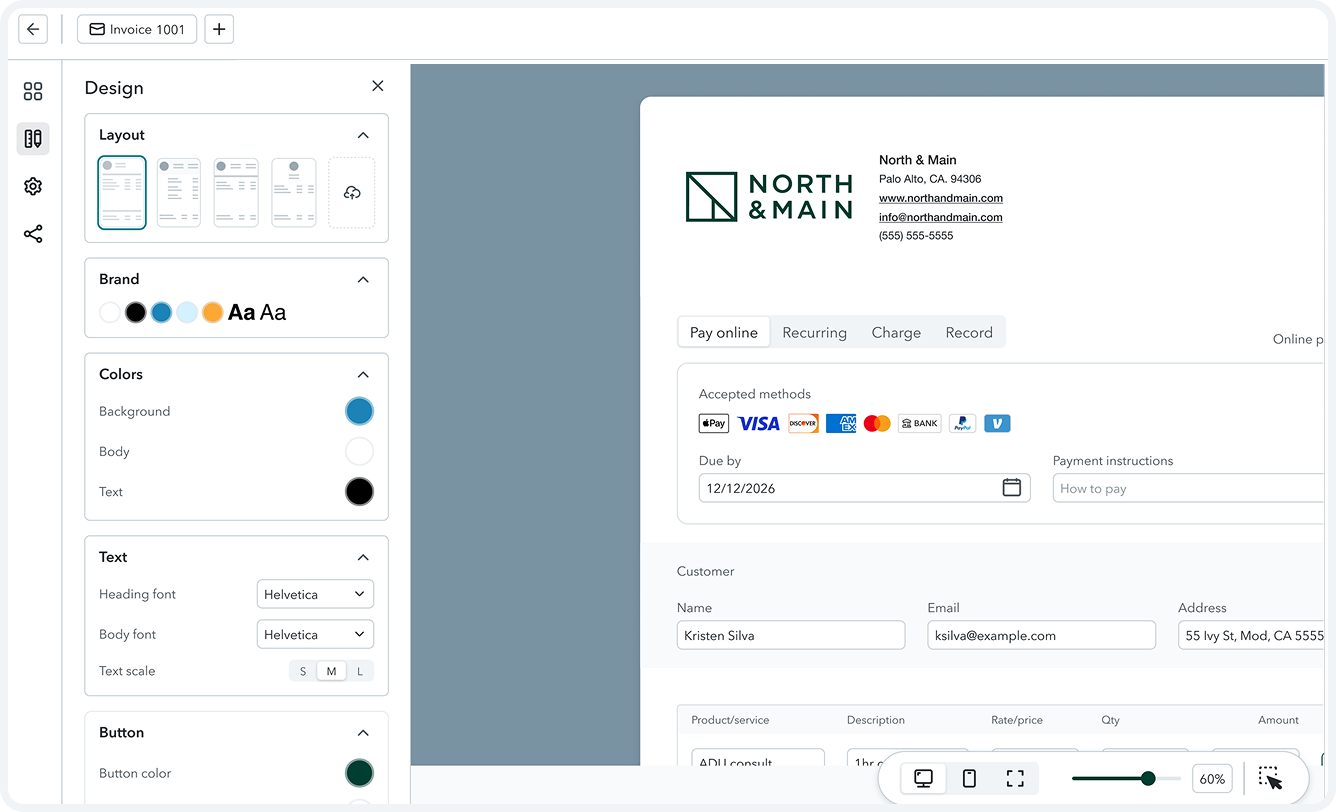
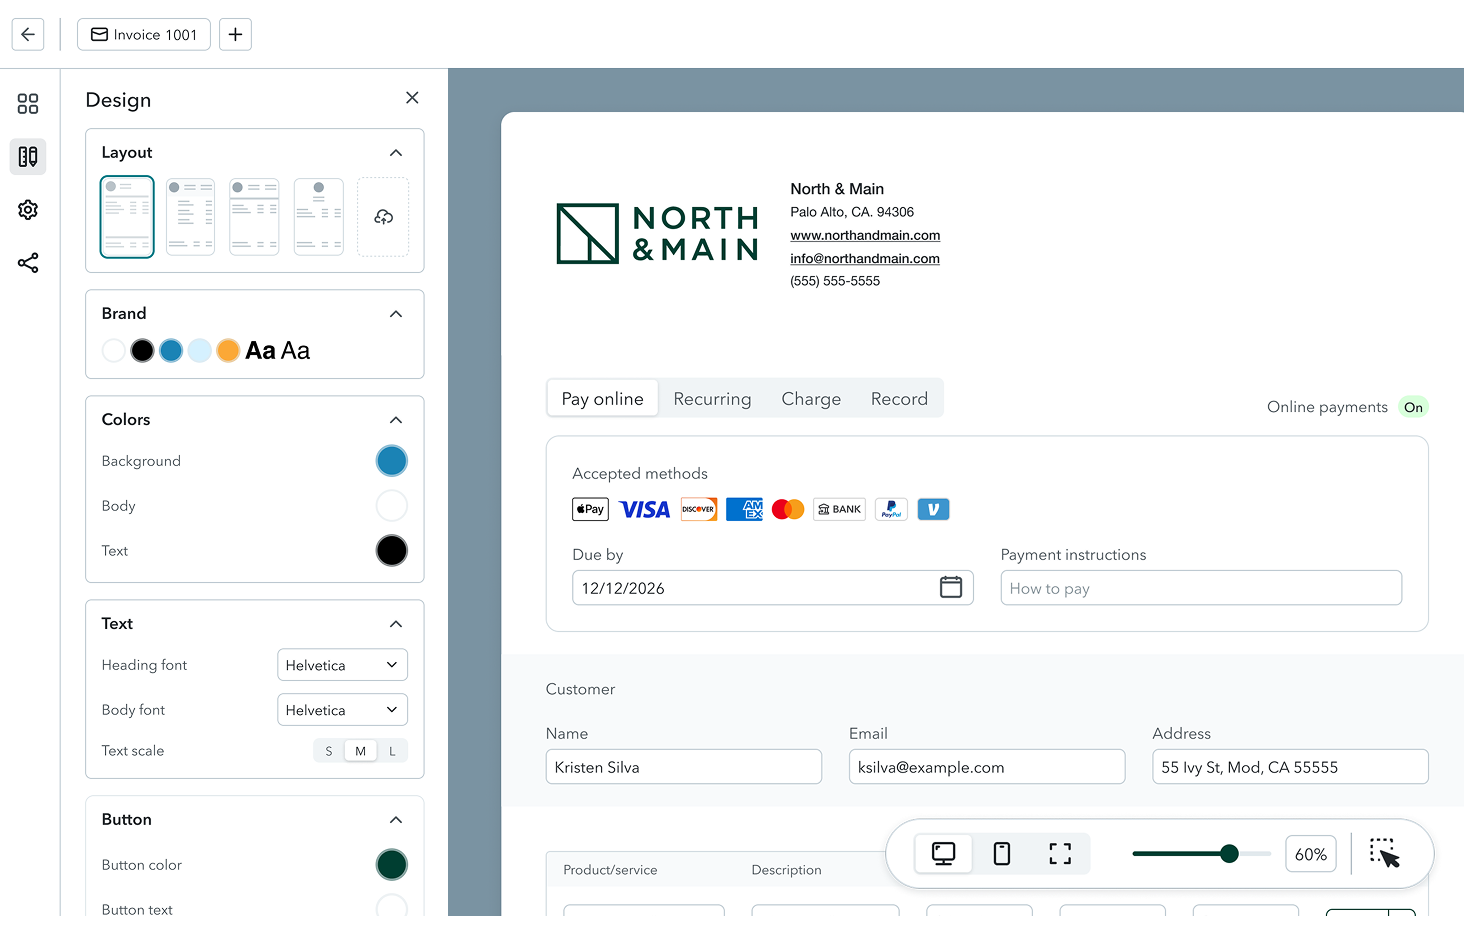
New About headline; equal spacing around Portfolio divider
Subhead and first case study link are trimmed to their baseline and cap
tops so the visible gap is exactly --space-5 on both sides of the rule.

diff --git a/work.html b/work.html
@@ -9,7 +9,7 @@
   <link rel="preconnect" href="https://fonts.googleapis.com" />
   <link rel="preconnect" href="https://fonts.gstatic.com" crossorigin />
   <link href="https://fonts.googleapis.com/css2?family=Inter:opsz,wght@14..32,400;14..32,500;14..32,600;14..32,700&family=Source+Serif+4:ital,opsz,wght@0,8..60,400;0,8..60,600;0,8..60,700;1,8..60,400&display=swap" rel="stylesheet" />
-  <link rel="stylesheet" href="assets/css/style.css?v=d3738257" />
+  <link rel="stylesheet" href="assets/css/style.css?v=e9cc3e42" />
 </head>
 <body>
 
@@ -65,7 +65,7 @@
     </div>
   </main>
 
[2 lines of base64/hex data omitted]
   <script src="assets/js/unlock.js?v=b97b3598"></script>
 
   <footer class="site-footer">

diff --git a/work/reimagine-invoicing.html b/work/reimagine-invoicing.html
@@ -9,7 +9,7 @@
   <link rel="preconnect" href="https://fonts.googleapis.com" />
   <link rel="preconnect" href="https://fonts.gstatic.com" crossorigin />
   <link href="https://fonts.googleapis.com/css2?family=Inter:opsz,wght@14..32,400;14..32,500;14..32,600;14..32,700&family=Source+Serif+4:ital,opsz,wght@0,8..60,400;0,8..60,700;1,8..60,400&display=swap" rel="stylesheet" />
-  <link rel="stylesheet" href="../assets/css/style.css?v=d3738257" />
+  <link rel="stylesheet" href="../assets/css/style.css?v=e9cc3e42" />
 </head>
 <body>
 
@@ -65,7 +65,7 @@
     </div>
   </main>
 
[2 lines of base64/hex data omitted]
   <script src="../assets/js/unlock.js?v=b97b3598"></script>
 
   <footer class="site-footer">

diff --git a/work/case-study-template.html b/work/case-study-template.html
@@ -9,7 +9,7 @@
   <link rel="preconnect" href="https://fonts.googleapis.com" />
   <link rel="preconnect" href="https://fonts.gstatic.com" crossorigin />
   <link href="https://fonts.googleapis.com/css2?family=Inter:opsz,wght@14..32,400;14..32,500;14..32,600;14..32,700&family=Source+Serif+4:ital,opsz,wght@0,8..60,400;0,8..60,700;1,8..60,400&display=swap" rel="stylesheet" />
-  <link rel="stylesheet" href="../assets/css/style.css?v=d3738257" />
+  <link rel="stylesheet" href="../assets/css/style.css?v=e9cc3e42" />
 </head>
 <body>
 
@@ -65,7 +65,7 @@
     </div>
   </main>
 
[2 lines of base64/hex data omitted]
   <script src="../assets/js/unlock.js?v=b97b3598"></script>
 
   <footer class="site-footer">

diff --git a/work/bulk-bill-pay.html b/work/bulk-bill-pay.html
@@ -9,7 +9,7 @@
   <link rel="preconnect" href="https://fonts.googleapis.com" />
   <link rel="preconnect" href="https://fonts.gstatic.com" crossorigin />
   <link href="https://fonts.googleapis.com/css2?family=Inter:opsz,wght@14..32,400;14..32,500;14..32,600;14..32,700&family=Source+Serif+4:ital,opsz,wght@0,8..60,400;0,8..60,700;1,8..60,400&display=swap" rel="stylesheet" />
-  <link rel="stylesheet" href="../assets/css/style.css?v=d3738257" />
+  <link rel="stylesheet" href="../assets/css/style.css?v=e9cc3e42" />
 </head>
 <body>
 
@@ -65,7 +65,7 @@
     </div>
   </main>
 
[2 lines of base64/hex data omitted]
   <script src="../assets/js/unlock.js?v=b97b3598"></script>
 
   <footer class="site-footer">

diff --git a/work/checkout-enhancements.html b/work/checkout-enhancements.html
@@ -9,7 +9,7 @@
   <link rel="preconnect" href="https://fonts.googleapis.com" />
   <link rel="preconnect" href="https://fonts.gstatic.com" crossorigin />
   <link href="https://fonts.googleapis.com/css2?family=Inter:opsz,wght@14..32,400;14..32,500;14..32,600;14..32,700&family=Source+Serif+4:ital,opsz,wght@0,8..60,400;0,8..60,700;1,8..60,400&display=swap" rel="stylesheet" />
-  <link rel="stylesheet" href="../assets/css/style.css?v=d3738257" />
+  <link rel="stylesheet" href="../assets/css/style.css?v=e9cc3e42" />
 </head>
 <body>
 
@@ -65,7 +65,7 @@
     </div>
   </main>
 
[2 lines of base64/hex data omitted]
   <script src="../assets/js/unlock.js?v=b97b3598"></script>
 
   <footer class="site-footer">

diff --git a/work/credit-card-payment.html b/work/credit-card-payment.html
@@ -9,7 +9,7 @@
   <link rel="preconnect" href="https://fonts.googleapis.com" />
   <link rel="preconnect" href="https://fonts.gstatic.com" crossorigin />
   <link href="https://fonts.googleapis.com/css2?family=Inter:opsz,wght@14..32,400;14..32,500;14..32,600;14..32,700&family=Source+Serif+4:ital,opsz,wght@0,8..60,400;0,8..60,700;1,8..60,400&display=swap" rel="stylesheet" />
-  <link rel="stylesheet" href="../assets/css/style.css?v=d3738257" />
+  <link rel="stylesheet" href="../assets/css/style.css?v=e9cc3e42" />
 </head>
 <body>
 
@@ -65,7 +65,7 @@
     </div>
   </main>
 
[2 lines of base64/hex data omitted]
   <script src="../assets/js/unlock.js?v=b97b3598"></script>
 
   <footer class="site-footer">

diff --git a/work/home-page-optimization.html b/work/home-page-optimization.html
@@ -9,7 +9,7 @@
   <link rel="preconnect" href="https://fonts.googleapis.com" />
   <link rel="preconnect" href="https://fonts.gstatic.com" crossorigin />
   <link href="https://fonts.googleapis.com/css2?family=Inter:opsz,wght@14..32,400;14..32,500;14..32,600;14..32,700&family=Source+Serif+4:ital,opsz,wght@0,8..60,400;0,8..60,700;1,8..60,400&display=swap" rel="stylesheet" />
-  <link rel="stylesheet" href="../assets/css/style.css?v=d3738257" />
+  <link rel="stylesheet" href="../assets/css/style.css?v=e9cc3e42" />
 </head>
 <body>
 
@@ -65,7 +65,7 @@
     </div>
   </main>
 
[2 lines of base64/hex data omitted]
   <script src="../assets/js/unlock.js?v=b97b3598"></script>
 
   <footer class="site-footer">

diff --git a/work/make-all-invoices-payable.html b/work/make-all-invoices-payable.html
@@ -9,7 +9,7 @@
   <link rel="preconnect" href="https://fonts.googleapis.com" />
   <link rel="preconnect" href="https://fonts.gstatic.com" crossorigin />
   <link href="https://fonts.googleapis.com/css2?family=Inter:opsz,wght@14..32,400;14..32,500;14..32,600;14..32,700&family=Source+Serif+4:ital,opsz,wght@0,8..60,400;0,8..60,700;1,8..60,400&display=swap" rel="stylesheet" />
-  <link rel="stylesheet" href="../assets/css/style.css?v=d3738257" />
+  <link rel="stylesheet" href="../assets/css/style.css?v=e9cc3e42" />
 </head>
 <body>
 
@@ -65,7 +65,7 @@
     </div>
   </main>
 
[2 lines of base64/hex data omitted]
   <script src="../assets/js/unlock.js?v=b97b3598"></script>
 
   <footer class="site-footer">

diff --git a/work/multi-bill-ingest.html b/work/multi-bill-ingest.html
@@ -9,7 +9,7 @@
   <link rel="preconnect" href="https://fonts.googleapis.com" />
   <link rel="preconnect" href="https://fonts.gstatic.com" crossorigin />
   <link href="https://fonts.googleapis.com/css2?family=Inter:opsz,wght@14..32,400;14..32,500;14..32,600;14..32,700&family=Source+Serif+4:ital,opsz,wght@0,8..60,400;0,8..60,700;1,8..60,400&display=swap" rel="stylesheet" />
-  <link rel="stylesheet" href="../assets/css/style.css?v=d3738257" />
+  <link rel="stylesheet" href="../assets/css/style.css?v=e9cc3e42" />
 </head>
 <body>
 
@@ -65,7 +65,7 @@
     </div>
   </main>
 
[2 lines of base64/hex data omitted]
   <script src="../assets/js/unlock.js?v=b97b3598"></script>
 
   <footer class="site-footer">

diff --git a/work/quickbooks-visual-refresh.html b/work/quickbooks-visual-refresh.html
@@ -9,7 +9,7 @@
   <link rel="preconnect" href="https://fonts.googleapis.com" />
   <link rel="preconnect" href="https://fonts.gstatic.com" crossorigin />
   <link href="https://fonts.googleapis.com/css2?family=Inter:opsz,wght@14..32,400;14..32,500;14..32,600;14..32,700&family=Source+Serif+4:ital,opsz,wght@0,8..60,400;0,8..60,700;1,8..60,400&display=swap" rel="stylesheet" />
-  <link rel="stylesheet" href="../assets/css/style.css?v=d3738257" />
+  <link rel="stylesheet" href="../assets/css/style.css?v=e9cc3e42" />
 </head>
 <body>
 
@@ -65,7 +65,7 @@
     </div>
   </main>
 
[2 lines of base64/hex data omitted]
   <script src="../assets/js/unlock.js?v=b97b3598"></script>
 
   <footer class="site-footer">

diff --git a/work/recurring-bill-payments.html b/work/recurring-bill-payments.html
@@ -9,7 +9,7 @@
   <link rel="preconnect" href="https://fonts.googleapis.com" />
   <link rel="preconnect" href="https://fonts.gstatic.com" crossorigin />
   <link href="https://fonts.googleapis.com/css2?family=Inter:opsz,wght@14..32,400;14..32,500;14..32,600;14..32,700&family=Source+Serif+4:ital,opsz,wght@0,8..60,400;0,8..60,700;1,8..60,400&display=swap" rel="stylesheet" />
-  <link rel="stylesheet" href="../assets/css/style.css?v=d3738257" />
+  <link rel="stylesheet" href="../assets/css/style.css?v=e9cc3e42" />
 </head>
 <body>
 
@@ -65,7 +65,7 @@
     </div>
   </main>
 
[2 lines of base64/hex data omitted]
   <script src="../assets/js/unlock.js?v=b97b3598"></script>
 
   <footer class="site-footer">

diff --git a/work/services-team-offsite.html b/work/services-team-offsite.html
@@ -9,7 +9,7 @@
   <link rel="preconnect" href="https://fonts.googleapis.com" />
   <link rel="preconnect" href="https://fonts.gstatic.com" crossorigin />
   <link href="https://fonts.googleapis.com/css2?family=Inter:opsz,wght@14..32,400;14..32,500;14..32,600;14..32,700&family=Source+Serif+4:ital,opsz,wght@0,8..60,400;0,8..60,700;1,8..60,400&display=swap" rel="stylesheet" />
-  <link rel="stylesheet" href="../assets/css/style.css?v=d3738257" />
+  <link rel="stylesheet" href="../assets/css/style.css?v=e9cc3e42" />
 </head>
 <body>
 
@@ -65,7 +65,7 @@
     </div>
   </main>
 
[2 lines of base64/hex data omitted]
   <script src="../assets/js/unlock.js?v=b97b3598"></script>
 
   <footer class="site-footer">
